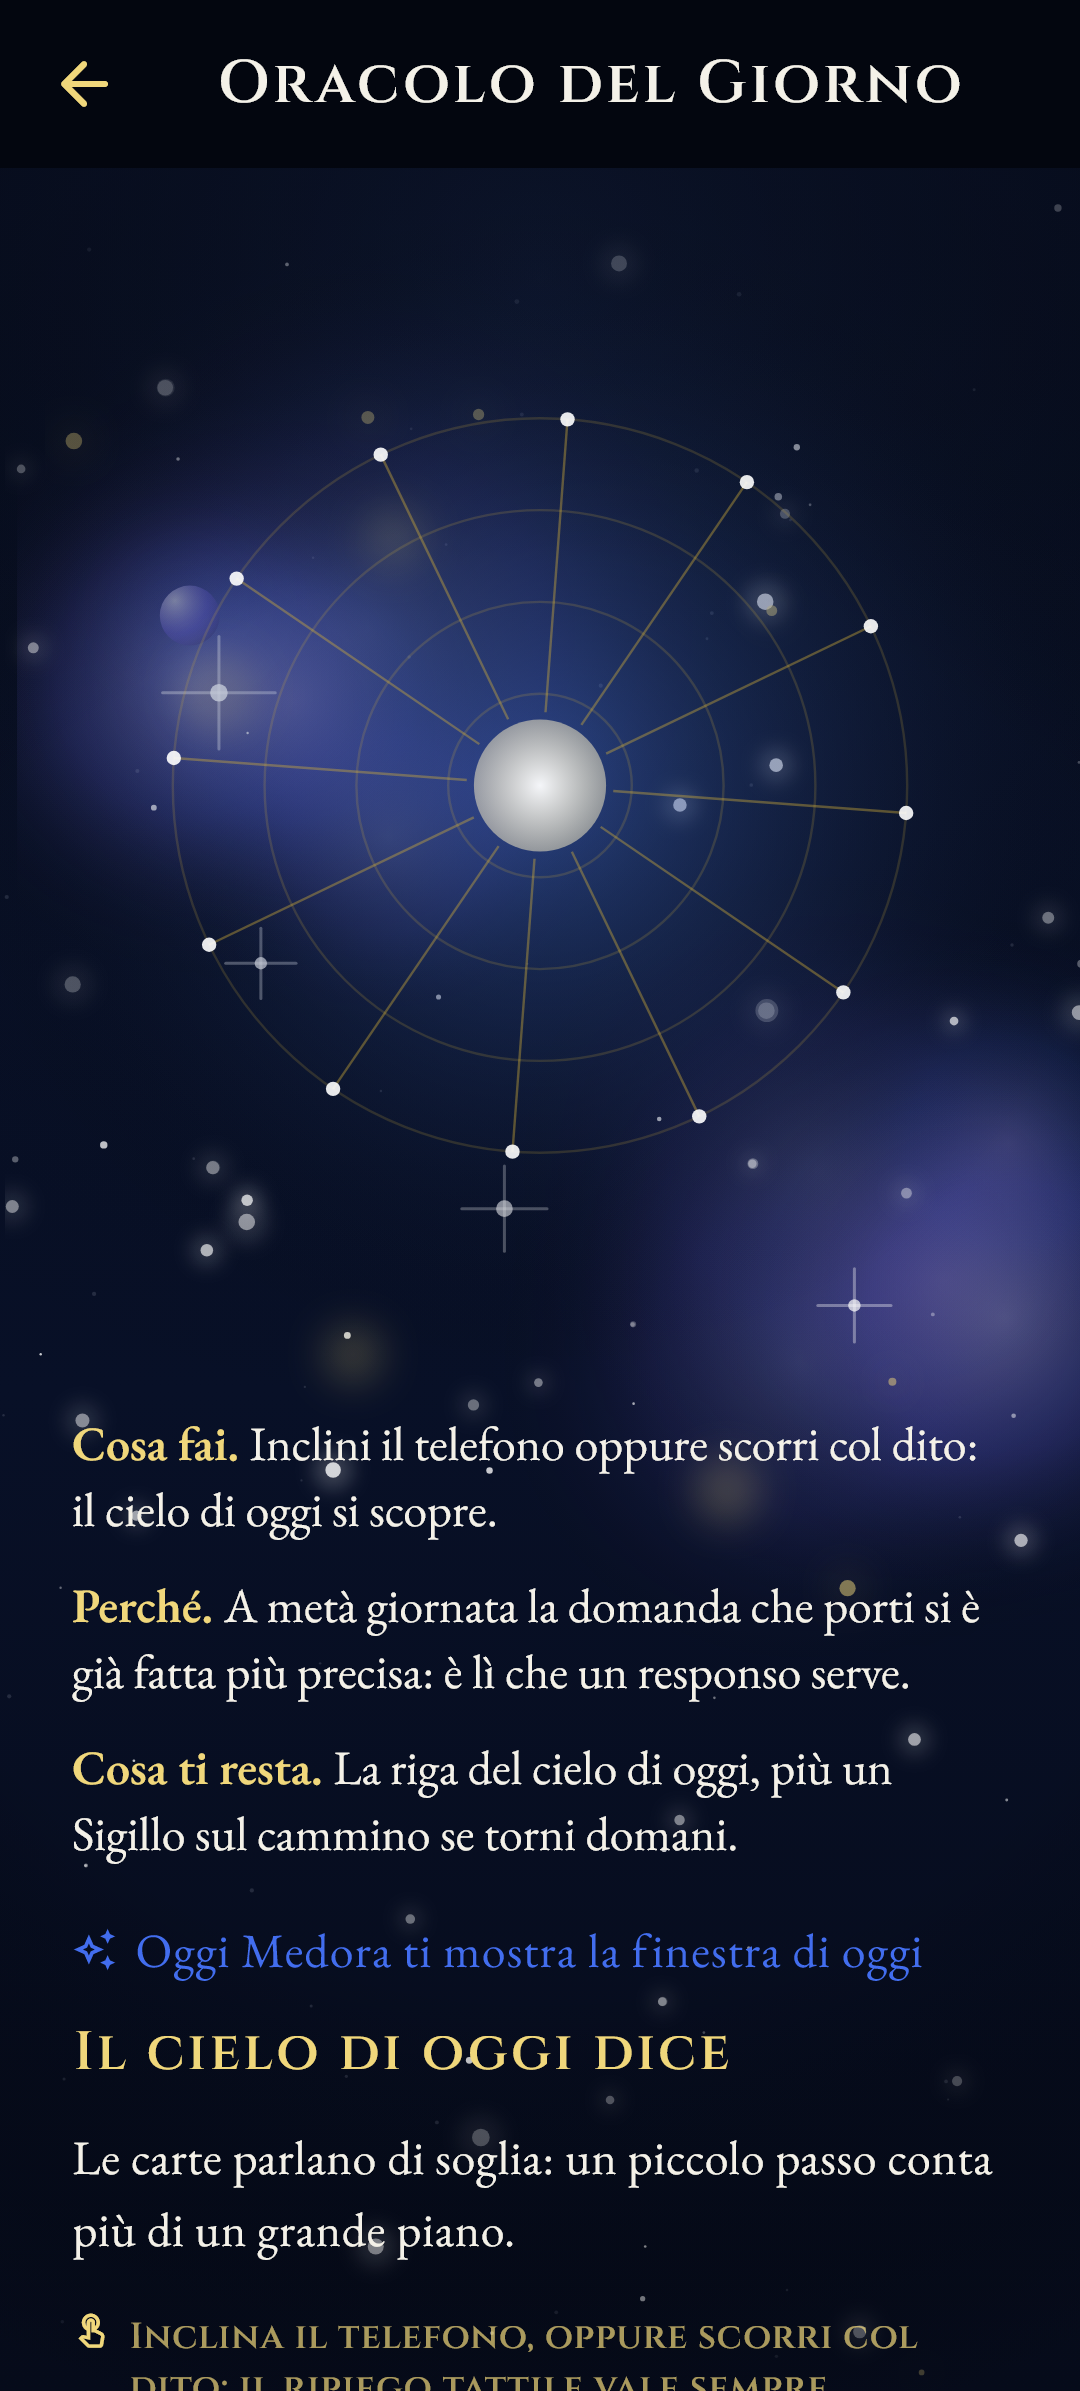
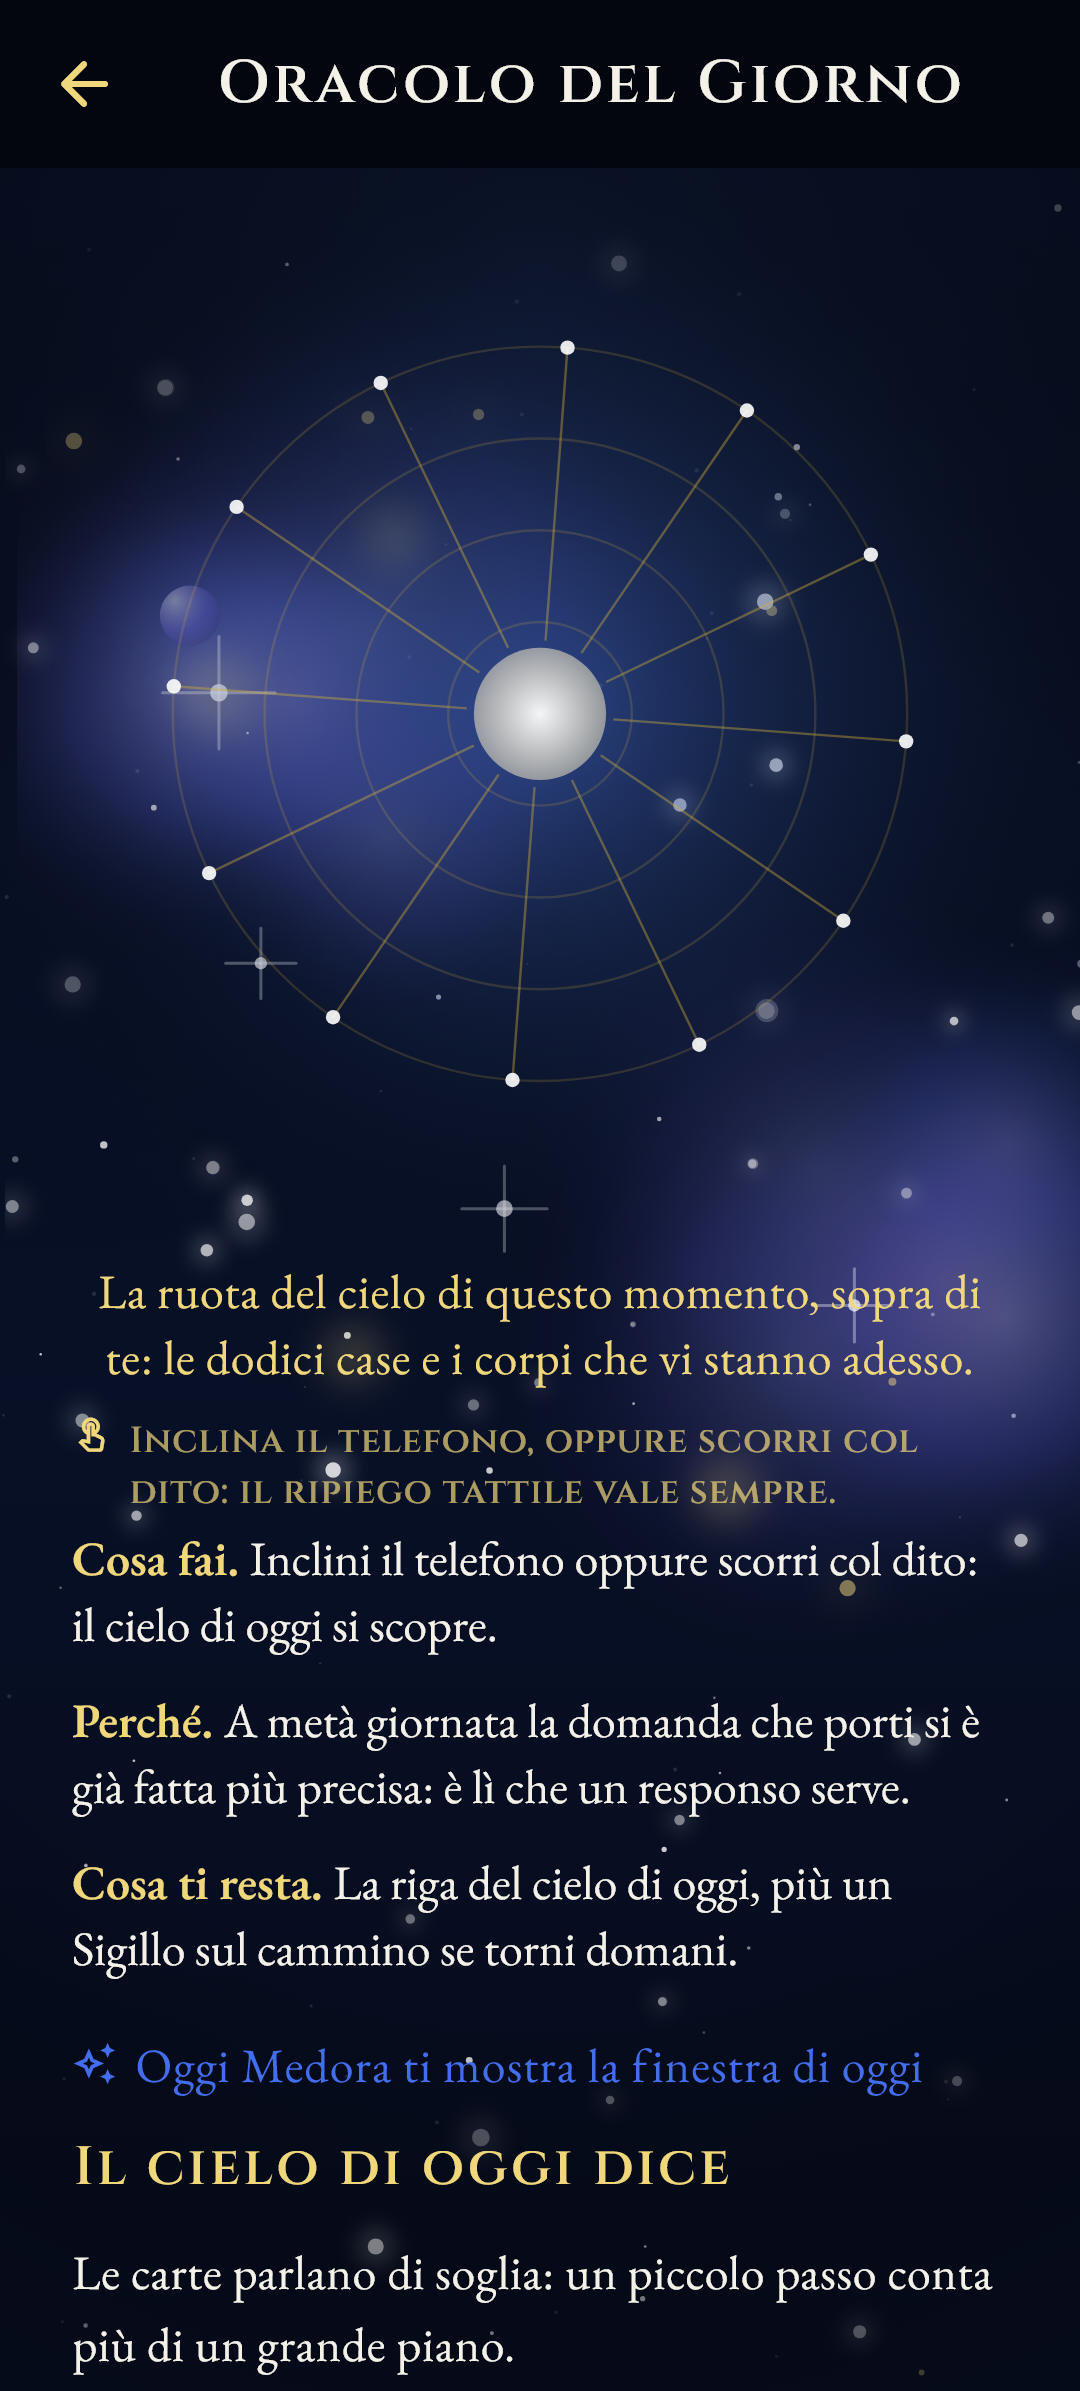
Il disco dell'Oracolo dice cosa e', e lo dice anche dopo il gesto
Voce S.12, strada (a) come raccomandava l'Architetto: il disco resta e acquista
un senso. Buttarlo perche' non era spiegato sarebbe stato risolvere un problema
di parole togliendo l'unico punto dell'app in cui il cielo reagisce al movimento
del telefono.

Il disco dichiara cosa e': la ruota del cielo di questo momento, con le dodici
case e i corpi che vi stanno adesso. La didascalia la dichiara il rito, non il
guscio, e resta nulla per i riti il cui livello visivo si spiega da se'.

E cosa succede muovendolo sta accanto a lui: la riga del ripiego tattile stava in
fondo, dopo il responso, ed e' salita sotto il disco. In fondo non si ripete, e
una prova conta le occorrenze.

Il difetto vero era che la dichiarazione non restava dopo il gesto: la riga del
gesto compariva solo prima della rivelazione, e dopo il disco restava nudo. La
prova tocca, aspetta il responso e guarda di nuovo. Rosso eseguito.

Resta detta una ridondanza vista e non chiusa: il ripiego e il "Cosa fai" dicono
lo stesso gesto con parole diverse. Il primo e' obbligatorio, il secondo e' corpus
della voce P.17: si propone di trattarla nella voce S.24, che e' la sua famiglia.

diff --git a/test/il_disco_dellOracolo_dice_cosa_e_test.dart b/test/il_disco_dellOracolo_dice_cosa_e_test.dart
@@ -1,0 +1,101 @@
+import 'package:esoteric_circle/features/rituals/day_oracle_screen.dart';
+import 'package:flutter/material.dart';
+import 'package:flutter/services.dart';
+import 'package:flutter_test/flutter_test.dart';
+import 'package:shared_preferences/shared_preferences.dart';
+
+/// IL DISCO DELL'ORACOLO DICE COSA E' E COSA DA'. Ordine S voce 12.
+///
+/// **Il fatto.** L'Oracolo funzionava, e il disco con i raggi in cima non diceva
+/// cosa fosse: chi lo guardava non capiva ne' cosa stesse guardando ne' cosa
+/// ottenesse muovendolo. La riga del gesto compariva solo PRIMA della
+/// rivelazione, e la riga del sensore stava in fondo, dopo il responso: dopo il
+/// gesto il disco restava li', nudo.
+///
+/// **Delle due strade dell'ordine si e' presa la (a):** il disco resta e acquista
+/// un senso. Buttarlo perche' non era spiegato sarebbe stato risolvere un problema
+/// di parole togliendo l'unico punto dell'app in cui il cielo reagisce al
+/// movimento del telefono.
+///
+/// **La misura che conta e' che la dichiarazione RESTI DOPO IL GESTO**, perche' e'
+/// li' che prima non c'era niente: una prova che guardasse solo la schermata
+/// appena aperta passerebbe col difetto in piedi.
+void main() {
+  final binding = TestWidgetsFlutterBinding.ensureInitialized();
+
+  void silenzia() {
+    final messenger = binding.defaultBinaryMessenger;
+    messenger.setMockMethodCallHandler(
+      const MethodChannel('dev.fluttercommunity.plus/sensors/method'),
+      (call) async => null,
+    );
+    for (final nome in const [
+      'dev.fluttercommunity.plus/sensors/accelerometer',
+      'dev.fluttercommunity.plus/sensors/user_accel',
+      'dev.fluttercommunity.plus/sensors/gyroscope',
+      'dev.fluttercommunity.plus/sensors/magnetometer',
+    ]) {
+      messenger.setMockStreamHandler(
+        EventChannel(nome),
+        MockStreamHandler.inline(onListen: (args, events) {}),
+      );
+    }
+  }
+
+  Future<void> monta(WidgetTester tester) async {
+    SharedPreferences.setMockInitialValues({});
+    silenzia();
+    tester.view.physicalSize = const Size(1080, 2391);
+    tester.view.devicePixelRatio = 3.0;
+    addTearDown(tester.view.reset);
+    await tester.pumpWidget(MaterialApp(
+      builder: (ctx, child) => MediaQuery(
+        data: MediaQuery.of(ctx).copyWith(disableAnimations: true),
+        child: child!,
+      ),
+      home: DayOracleScreen(now: DateTime(2026, 8, 13, 13, 30)),
+    ));
+    for (var i = 0; i < 6; i++) {
+      await tester.pump(const Duration(milliseconds: 200));
+    }
+  }
+
+  testWidgets('il disco dice cosa e\', prima e DOPO il gesto', (tester) async {
+    await monta(tester);
+    final didascalia = find.byKey(const Key('rito_cosa_e_il_visivo'));
+    expect(didascalia, findsOneWidget,
+        reason: 'il disco non dice cosa sia: chi lo guarda non sa cosa sta '
+            'guardando');
+
+    // COSA DICE: il cielo di questo momento, e non una frase qualunque.
+    final testo = tester.widget<Text>(didascalia).data!;
+    expect(testo.toLowerCase(), contains('cielo'),
+        reason: 'la didascalia del disco non nomina il cielo: «$testo»');
+
+    // **IL GESTO, e poi si guarda di nuovo.** Il ripiego tattile vale sempre,
+    // quindi il tocco rivela come l'inclinazione.
+    await tester.tap(find.byKey(const Key('ritual_gesture')));
+    for (var i = 0; i < 8; i++) {
+      await tester.pump(const Duration(milliseconds: 200));
+    }
+    expect(find.byKey(const Key('ritual_content')), findsOneWidget,
+        reason: 'il gesto non ha rivelato niente: la prova non sta misurando il '
+            'dopo');
+    expect(didascalia, findsOneWidget,
+        reason: 'dopo il gesto il disco torna nudo: la dichiarazione deve '
+            'restare, perche\' il disco resta');
+  });
+
+  testWidgets('la riga del ripiego tattile non si dice due volte',
+      (tester) async {
+    // **Era in fondo alla schermata, dopo il responso.** Adesso sta accanto alla
+    // cosa che si muove, che e' la sua casa: se restasse anche in fondo, la
+    // stessa frase si leggerebbe due volte nella stessa scorsa.
+    await monta(tester);
+    final riga = find.textContaining('Inclina il telefono');
+    expect(riga, findsOneWidget,
+        reason: 'la riga del ripiego tattile compare '
+            '${riga.evaluate().length} volte: e\' obbligatoria, e una volta '
+            'basta');
+  });
+}

diff --git a/lib/features/rituals/ritual_view.dart b/lib/features/rituals/ritual_view.dart
@@ -47,6 +47,7 @@ class RitualView extends StatefulWidget {
     required this.prompt,
     required this.sensorHint,
     required this.visualBuilder,
+    this.cosaEIlVisivo,
     required this.revealed,
     this.rito,
     this.cosaRicevi,
@@ -63,6 +64,23 @@ class RitualView extends StatefulWidget {
   /// LA RIGA CHE DICE COSA STAI PER RICEVERE, prima del gesto.
   ///
   /// Ordine P voce 16: nessuno compie un gesto senza sapere cosa ne esce. Il
+  /// COSA E' LA COSA CHE SI VEDE. Ordine S voce 12.
+  ///
+  /// **Il difetto: il disco dell'Oracolo non diceva cosa fosse.** Funzionava, il
+  /// cielo reagiva al movimento del telefono, e chi lo guardava non capiva ne'
+  /// cosa stesse guardando ne' cosa ottenesse muovendolo. La riga del gesto
+  /// compariva solo PRIMA della rivelazione e la riga del sensore stava in fondo,
+  /// dopo il responso: dopo il gesto il disco restava li', nudo.
+  ///
+  /// **Delle due strade dell'ordine si e' presa la (a):** il disco resta e acquista
+  /// un senso. Buttarlo perche' non era spiegato sarebbe stato risolvere un
+  /// problema di parole togliendo l'unico punto dell'app in cui il cielo reagisce
+  /// al movimento del telefono.
+  ///
+  /// Nullo per i riti il cui livello visivo si spiega da se': il sole che si
+  /// solleva non ha bisogno di una didascalia.
+  final String? cosaEIlVisivo;
+
   /// [prompt] dice come si fa, questa dice cosa si ottiene, e sono due cose
   /// diverse: "Inclina o scorri per rivelare" non dice niente a nessuno.
   final String? cosaRicevi;
@@ -291,6 +309,33 @@ class _RitualViewState extends State<RitualView>
                   ),
                 ),
               ),
+              // **COSA E' QUELLO CHE SI VEDE, E COSA FA MUOVERLO.** Ordine S voce
+              // 12: sta SOTTO il livello visivo e resta anche dopo la
+              // rivelazione, perche' il disco resta li' anche dopo. La riga del
+              // sensore e' salita da sotto il responso a qui: dice cosa succede
+              // muovendo, e la sua casa e' accanto alla cosa che si muove, non in
+              // fondo alla schermata.
+              if (widget.cosaEIlVisivo != null)
+                Padding(
+                  padding: const EdgeInsets.symmetric(
+                      horizontal: SpacingTokens.lg),
+                  child: Column(
+                    children: [
+                      Text(
+                        widget.cosaEIlVisivo!,
+                        key: const Key('rito_cosa_e_il_visivo'),
+                        textAlign: TextAlign.center,
+                        style: TypographyTokens.didascalia().copyWith(
+                            color: palette.goldSoft, height: 1.35),
+                      ),
+                      const SizedBox(height: SpacingTokens.xs),
+                      _HintRow(
+                          icon: Icons.touch_app_outlined,
+                          text: widget.sensorHint,
+                          palette: palette),
+                    ],
+                  ),
+                ),
               // Responso, rivelato dopo il gesto.
               Expanded(
                 flex: 4,
@@ -343,10 +388,15 @@ class _RitualViewState extends State<RitualView>
                             key: const Key('ritual_content'),
                             child: widget.revealed),
                       const SizedBox(height: SpacingTokens.md),
-                      _HintRow(
-                          icon: Icons.touch_app_outlined,
-                          text: widget.sensorHint,
-                          palette: palette),
+                      // **LA RIGA DEL SENSORE NON SI RIPETE.** Ordine S voce 12:
+                      // per i riti che dichiarano cosa e' il loro visivo, e'
+                      // salita accanto al disco. Per gli altri resta qui, che e'
+                      // la sua casa di sempre.
+                      if (widget.cosaEIlVisivo == null)
+                        _HintRow(
+                            icon: Icons.touch_app_outlined,
+                            text: widget.sensorHint,
+                            palette: palette),
                       if (widget.footnote != null) ...[
                         const SizedBox(height: SpacingTokens.sm),
                         _HintRow(

diff --git a/lib/features/rituals/day_oracle_screen.dart b/lib/features/rituals/day_oracle_screen.dart
@@ -95,6 +95,14 @@ class _DayOracleScreenState extends State<DayOracleScreen> {
       prompt: 'Inclina o scorri per rivelare',
       sensorHint:
           'Inclina il telefono, oppure scorri col dito: il ripiego tattile vale sempre.',
+      // **COSA E' IL DISCO, ordine S voce 12.** Funzionava e non diceva cosa
+      // fosse: chi lo guardava non capiva ne' cosa stesse guardando ne' cosa
+      // ottenesse muovendolo. Delle due strade dell'ordine si e' presa la prima,
+      // il disco resta e acquista un senso: e' la ruota del cielo di questo
+      // momento, con le dodici case e i corpi che vi stanno adesso, e muovendo il
+      // telefono ci si guarda dentro.
+      cosaEIlVisivo: 'La ruota del cielo di questo momento, sopra di te: le '
+          'dodici case e i corpi che vi stanno adesso.',
       visualBuilder: (context, revealed, t, inclinazione) => CustomPaint(
         painter: _OraclePainter(
             palette: palette,

diff --git a/docs/ordini/ORDINE_S_MANIFESTO.md b/docs/ordini/ORDINE_S_MANIFESTO.md
@@ -589,7 +589,36 @@ chiusa: committare non e' consegnare.
   - Anteprima GUARDATA: `docs/preview/runa-tramonto-voce-uno.png`. Adesso si legge
     barra, la riga di chi parla, la pietra, "Gira la pietra", il nome della runa, e
     solo dopo le tre righe.
-- **S.12** L'Oracolo del Giorno dichiara cosa e' e cosa da' — APERTA
+- **S.12** L'Oracolo del Giorno dichiara cosa e' e cosa da' — CHIUSA
+  - **SI E' PRESA LA STRADA (a), come raccomandava l'Architetto:** il disco resta e
+    acquista un senso. Buttarlo perche' non era spiegato sarebbe stato risolvere un
+    problema di parole togliendo l'unico punto dell'app in cui il cielo reagisce al
+    movimento del telefono.
+  - Il disco dichiara cosa e': "La ruota del cielo di questo momento, sopra di te: le
+    dodici case e i corpi che vi stanno adesso." La didascalia vive nel rito che la
+    dichiara, non dentro il guscio: `RitualView` la ospita e resta nulla per i riti il
+    cui livello visivo si spiega da se', perche' il sole che si solleva non ha bisogno
+    di una didascalia.
+  - **E COSA SUCCEDE MUOVENDOLO STA ACCANTO A LUI.** La riga del ripiego tattile
+    ("Inclina il telefono, oppure scorri col dito") stava in fondo alla schermata,
+    DOPO il responso: adesso e' salita sotto il disco, che e' la casa della frase che
+    dice cosa fa muovere una cosa. In fondo non si ripete: una prova conta le
+    occorrenze e cade se diventano due.
+  - **LA DICHIARAZIONE RESTA DOPO IL GESTO, ed e' li' il difetto vero.** La riga del
+    gesto compariva solo PRIMA della rivelazione: dopo il gesto il disco restava li',
+    nudo. Una prova che guardasse solo la schermata appena aperta passerebbe col
+    difetto in piedi, quindi la misura tocca il disco, aspetta il responso e guarda di
+    nuovo.
+  - Misura: `test/il_disco_dellOracolo_dice_cosa_e_test.dart`, due prove. Rosso
+    eseguito rimettendo la didascalia solo prima della rivelazione: cade su "dopo il
+    gesto il disco torna nudo".
+  - Anteprima GUARDATA: `docs/preview/oracolo-giorno.png`.
+  - **RIDONDANZA VISTA E NON CHIUSA, e va detta:** sotto il disco la riga del ripiego
+    dice "Inclini il telefono oppure scorri col dito" e due righe piu' sotto il "Cosa
+    fai" del rito dice la stessa cosa con altre parole. Il ripiego tattile e'
+    obbligatorio e resta; il testo del "Cosa fai" e' corpus della voce P.17, e
+    riscriverlo e' materiale di Mauro. **E' la stessa famiglia della voce S.24**, la
+    ridondanza nelle schede delle rune: si propone di trattarla la'.
 - **S.13** Il respiro guidato esce dal Rito dell'Alba — APERTA
 - **S.14** L'accesso si apre davvero: Google su Android e su iPhone, Apple su iPhone — APERTA
 
@@ -747,6 +776,6 @@ La voce S.10 si misura sulla resa, come l'ordine prevede.
 ---
 
 VOCI_TOTALI: 29
-VOCI_CHIUSE: 11
+VOCI_CHIUSE: 12
 VOCI_FERMATE_SU_PREMESSA_FALSA: 0
 VOCI_FERMATE_IN_ATTESA_DI_DECISIONE: 0
